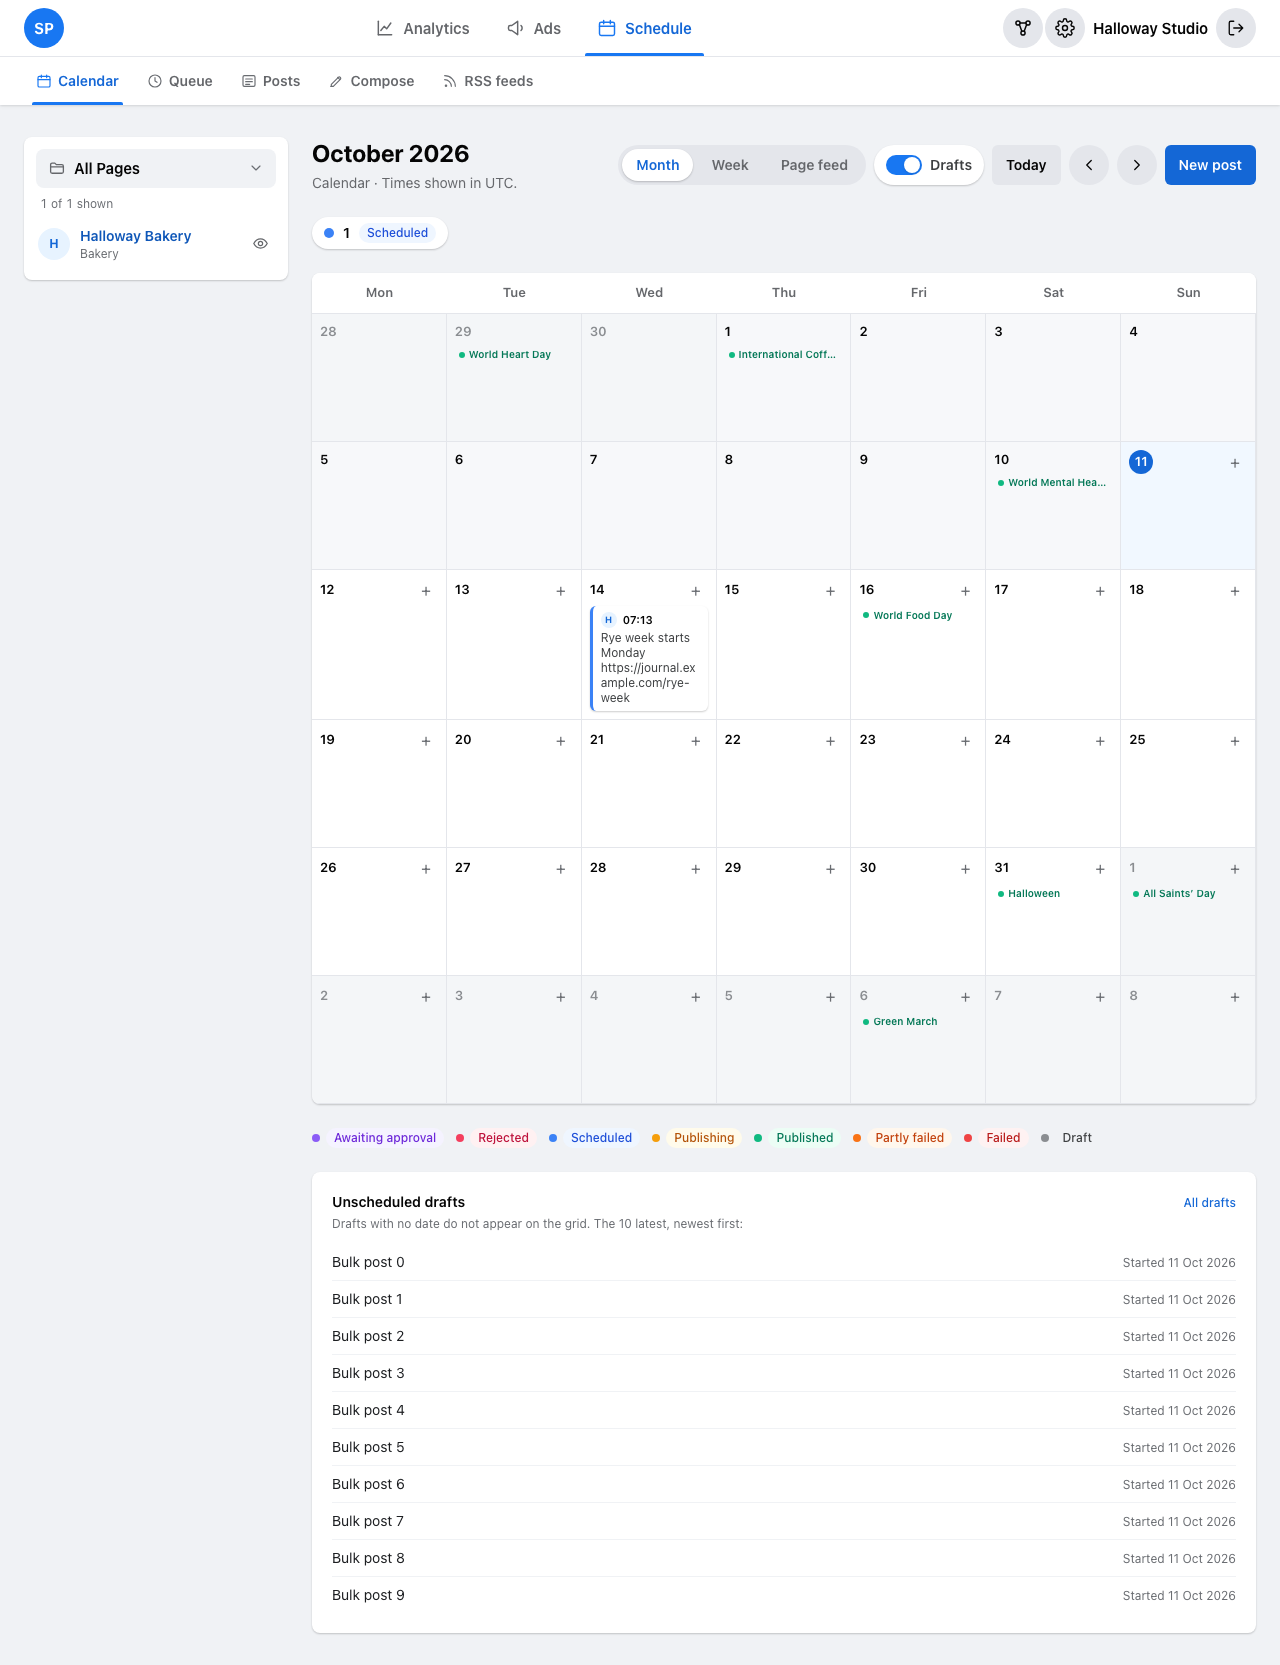
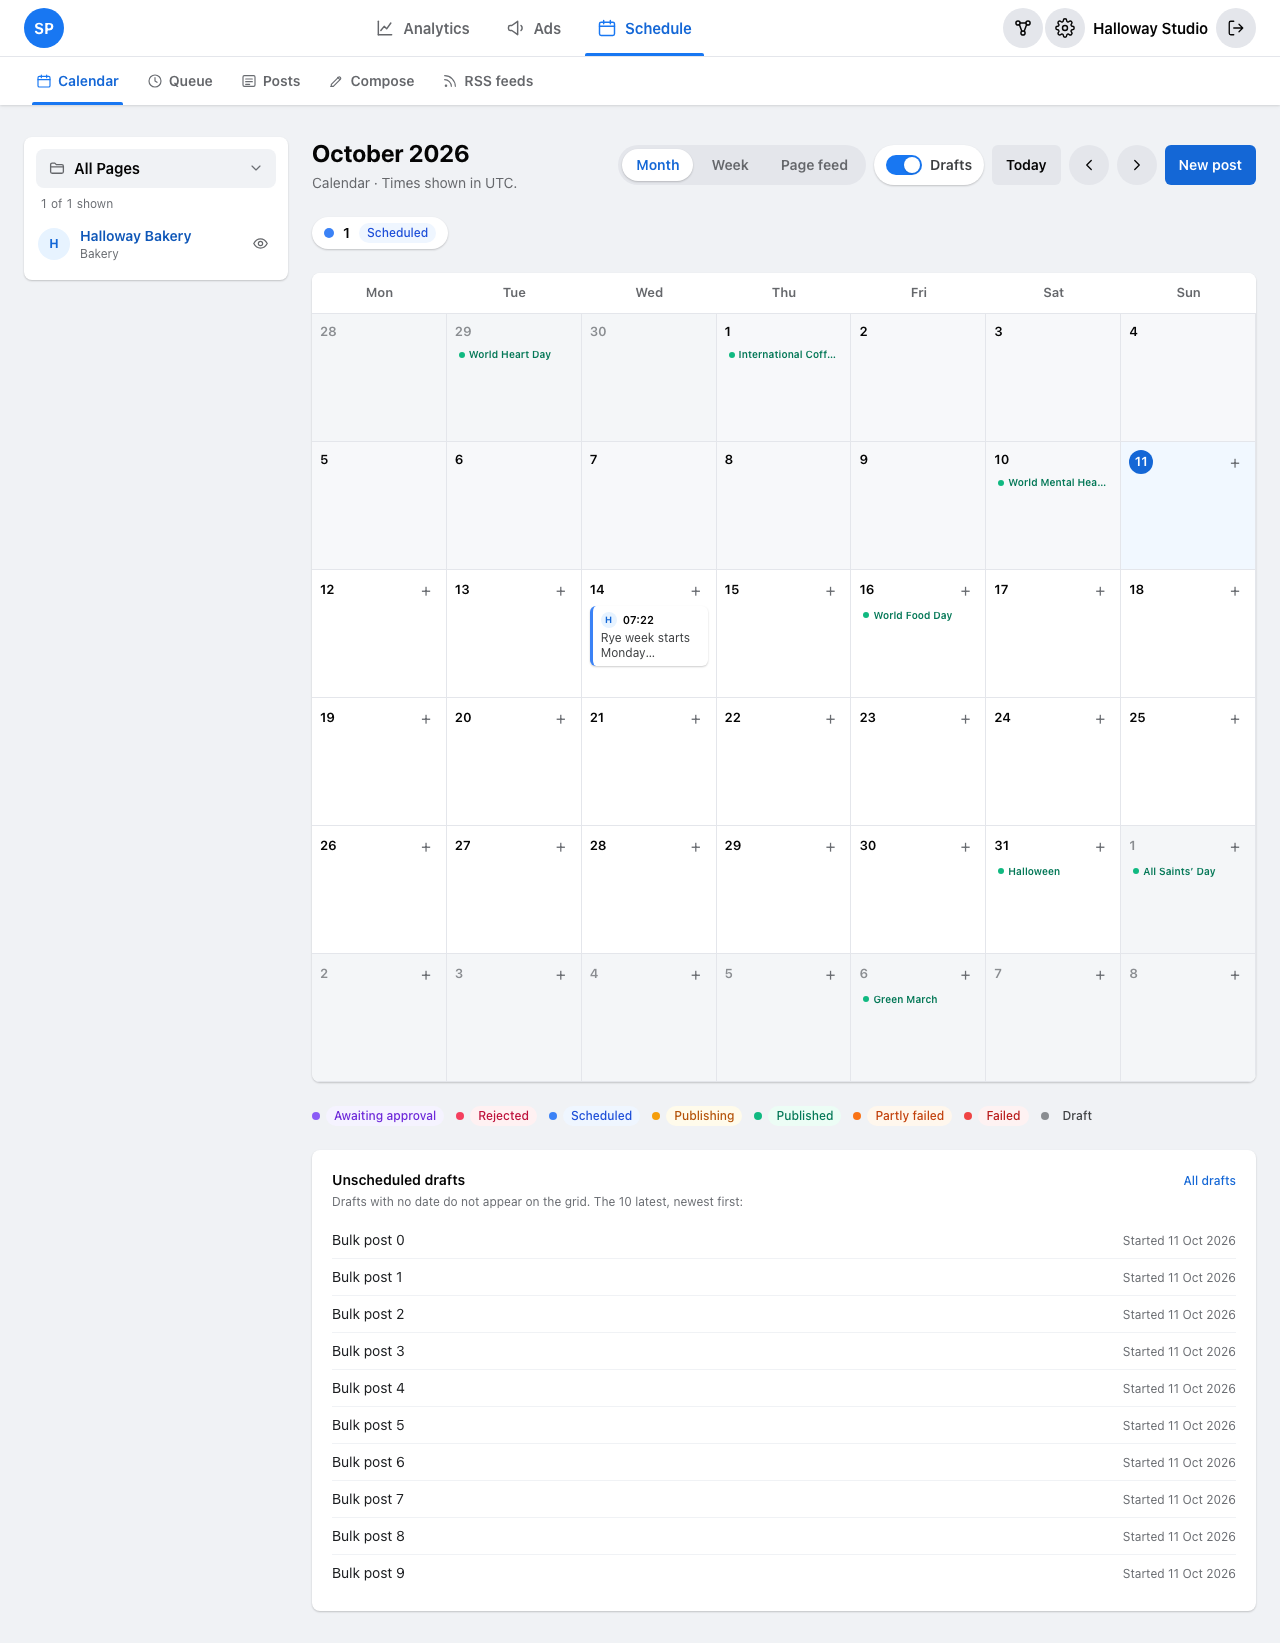
Polish P2 against real Pages: clamp long posts in the calendar, show Facebook-side posts in the feed preview, keep definitions inside their card, no link field on Reels and Stories

diff --git a/src/app/(app)/calendar/page.tsx b/src/app/(app)/calendar/page.tsx
@@ -9,7 +9,7 @@ import { PagesSidebar } from '@/components/PagesSidebar';
 import { LabelFilter } from '@/components/LabelFilter';
 import { WeekGrid } from '@/components/CalendarWeek';
 import { PageFeedPreview } from '@/components/PageFeedPreview';
-import { feedLinkOf, feedMediaOf } from '@/lib/feed';
+import { feedLinkOf, feedMediaOf, feedMediaOfPicture } from '@/lib/feed';
 import { canManageOthersPosts, canManageSettings, postIsEditable } from '@/lib/constants';
 import { screenMetadata } from '@/lib/metadata';
 import { prisma } from '@/lib/prisma';
@@ -138,7 +138,7 @@ export default async function CalendarPage({
 
   // The feed view shows one Page: the one left visible, or the first.
   const feedPageId = view === 'feed' ? (filter.visible?.length === 1 ? filter.visible[0] : filter.ids[0]) : undefined;
-  const [feedPage, feedUpcoming, feedRecent] = feedPageId
+  const [feedPage, feedUpcoming, feedOurs, feedFound] = feedPageId
     ? await Promise.all([
         prisma.target.findUnique({
           where: { id: feedPageId },
@@ -162,8 +162,37 @@ export default async function CalendarPage({
           orderBy: { publishedAt: 'desc' },
           take: 5,
         }),
+        // Posted from Facebook itself, or before this app: the feed is the Page's, not ours.
+        prisma.externalPost.findMany({
+          where: { targetId: feedPageId },
+          orderBy: { createdTime: 'desc' },
+          take: 5,
+        }),
       ])
-    : [null, [], []];
+    : [null, [], [], []];
+  const sentFromHere = new Set(feedOurs.map((row) => row.remotePostId).filter(Boolean));
+  const feedRecent = [
+    ...feedOurs.map((row) => ({
+      id: row.id,
+      at: row.publishedAt,
+      message: row.post.message,
+      media: feedMediaOf(row.post.media),
+      link: row.post.link,
+      linkPreview: feedLinkOf(row.post.linkPreview),
+    })),
+    ...feedFound
+      .filter((row) => !sentFromHere.has(row.remoteId))
+      .map((row) => ({
+        id: row.id,
+        at: row.createdTime as Date | null,
+        message: row.message ?? '',
+        media: feedMediaOfPicture(row.pictureUrl, row.statusType === 'added_video'),
+        link: null,
+        linkPreview: null,
+      })),
+  ]
+    .sort((a, b) => (b.at?.getTime() ?? 0) - (a.at?.getTime() ?? 0))
+    .slice(0, 5);
 
   // Bucket by the local calendar day so a post at 23:00 UTC+2 lands on the
   // right square rather than the previous day.
@@ -297,7 +326,7 @@ export default async function CalendarPage({
           {/* The planner's chip: the photo beside the opening words,
               as Meta Business Suite draws a planned post. */}
           <span className="mt-0.5 flex items-start gap-1.5">
-            <span className="line-clamp-2 block min-w-0 flex-1 [overflow-wrap:anywhere] text-xs leading-tight text-slate-700">
+            <span className="line-clamp-2 min-w-0 flex-1 [overflow-wrap:anywhere] text-xs leading-tight text-slate-700">
               {post.message || post.link || tPosts('mediaOnly')}
             </span>
             {firstImage(post.media) && (
@@ -443,11 +472,11 @@ export default async function CalendarPage({
             }))}
             recent={feedRecent.map((row) => ({
               id: row.id,
-              message: row.post.message,
-              meta: row.publishedAt ? formatInZone(row.publishedAt, timezone, 'd MMMM, HH:mm') : '',
-              media: feedMediaOf(row.post.media),
-              link: row.post.link,
-              linkPreview: feedLinkOf(row.post.linkPreview),
+              message: row.message,
+              meta: row.at ? formatInZone(row.at, timezone, 'd MMMM, HH:mm') : '',
+              media: row.media,
+              link: row.link,
+              linkPreview: row.linkPreview,
             }))}
           />
         ) : (

diff --git a/src/components/Composer.tsx b/src/components/Composer.tsx
@@ -332,7 +332,7 @@ export function Composer({
               firstCommentDelayMinutes: commentDelay,
               labelIds,
               format,
-              link: link.trim() ? link.trim() : null,
+              link: format === 'post' && link.trim() ? link.trim() : null,
               media,
               targetIds: selected,
               publishMode: effectiveHandler,
@@ -349,7 +349,7 @@ export function Composer({
               firstCommentDelayMinutes: commentDelay,
               labelIds,
               format,
-              link: link.trim() ? link.trim() : null,
+              link: format === 'post' && link.trim() ? link.trim() : null,
               media,
               targetIds: selected,
               publishMode,
@@ -580,7 +580,8 @@ export function Composer({
 
           {aiEnabled && <AiAssist draft={message} onResult={writeMessage} />}
 
-          <div className="mt-5">
+          {/* Reels and Stories carry no link card: Facebook drops it. */}
+          <div className={`mt-5 ${format === 'post' ? '' : 'hidden'}`}>
             <label className="label" htmlFor="link">
               {t('link')} <span className="font-normal text-slate-400">{tAuth('optional')}</span>
             </label>
@@ -675,7 +676,11 @@ export function Composer({
                 <span className="font-medium text-brand-600">{t('mediaChoose')}</span> {t('mediaOrDrop')}
               </span>
             </label>
-            <p className="hint">{uploading ? t('uploading') : t('mediaHint', { max: LIMITS.mediaPerPost })}</p>
+            <p className="hint">{uploading
+                ? t('uploading')
+                : format === 'post'
+                  ? t('mediaHint', { max: LIMITS.mediaPerPost })
+                  : t(`mediaHint_${format}`)}</p>
 
             {media.length > 0 && (
               <ul className="mt-3 flex flex-wrap gap-3">

diff --git a/src/components/InfoTip.tsx b/src/components/InfoTip.tsx
@@ -3,6 +3,9 @@
  * hover or keyboard focus. A span, not a button, so it can sit inside a card
  * that is itself a button; it is focusable, and screen readers read the
  * definition as its label.
+ *
+ * The bubble spans the card it sits in (the nearest positioned ancestor), so it
+ * never runs off the edge of a phone or of the first card in a row.
  */
 export function InfoTip({ text }: { text: string }) {
   return (
@@ -10,12 +13,12 @@ export function InfoTip({ text }: { text: string }) {
       tabIndex={0}
       role="img"
       aria-label={text}
-      className="group/tip relative ml-1 inline-flex h-4 w-4 shrink-0 cursor-help items-center justify-center rounded-full align-[-2px] text-[10px] font-bold text-slate-400 ring-1 ring-slate-300 hover:text-brand-600 hover:ring-brand-400 focus:outline-none focus-visible:ring-2 focus-visible:ring-brand-500 print:hidden"
+      className="group/tip ml-1 inline-flex h-4 w-4 shrink-0 cursor-help items-center justify-center rounded-full align-[-2px] text-[10px] font-bold text-slate-400 ring-1 ring-slate-300 hover:text-brand-600 hover:ring-brand-400 focus:outline-none focus-visible:ring-2 focus-visible:ring-brand-500 print:hidden"
     >
       i
       <span
         aria-hidden
-        className="pointer-events-none absolute bottom-full left-1/2 z-40 mb-2 hidden w-56 -translate-x-1/2 rounded-lg bg-slate-900 px-3 py-2 text-left text-xs font-normal leading-snug text-white shadow-lg group-hover/tip:block group-focus/tip:block"
+        className="pointer-events-none absolute inset-x-2 bottom-full z-40 mb-1 hidden rounded-lg bg-slate-900 px-3 py-2 text-left text-xs font-normal leading-snug text-white shadow-lg group-hover/tip:block group-focus/tip:block"
       >
         {text}
       </span>

diff --git a/src/components/analysis/KpiExplorer.tsx b/src/components/analysis/KpiExplorer.tsx
@@ -94,14 +94,14 @@ export function KpiExplorer({ cards, days, vsLabel }: { cards: KpiCard[]; days: 
               type="button"
               aria-pressed={on}
               onClick={() => setSelected(card.key)}
-              className={`card block p-4 text-left transition-shadow hover:shadow-md focus-visible:outline-none focus-visible:ring-2 focus-visible:ring-brand-500 ${
+              className={`card relative block p-4 text-left transition-shadow hover:shadow-md focus-visible:outline-none focus-visible:ring-2 focus-visible:ring-brand-500 ${
                 on ? 'ring-2 ring-brand-500' : ''
               }`}
             >
               {body}
             </button>
           ) : (
-            <div key={card.key} className="card p-4">
+            <div key={card.key} className="card relative p-4">
               {body}
             </div>
           );

diff --git a/src/components/FeedPost.tsx b/src/components/FeedPost.tsx
@@ -358,12 +358,12 @@ export function LinkCard({ preview, compact = false }: { preview: FeedLinkPrevie
           {preview.siteName || hostOf(preview.url)}
         </span>
         <span
-          className={`line-clamp-2 block font-semibold text-slate-900 ${compact ? 'text-sm leading-5' : 'text-[17px] leading-[1.35rem]'}`}
+          className={`line-clamp-2 font-semibold text-slate-900 ${compact ? 'text-sm leading-5' : 'text-[17px] leading-[1.35rem]'}`}
         >
           {preview.title || preview.url}
         </span>
         {preview.description && !compact && (
-          <span className="mt-0.5 line-clamp-1 block text-[15px] text-slate-600">{preview.description}</span>
+          <span className="mt-0.5 line-clamp-1 text-[15px] text-slate-600">{preview.description}</span>
         )}
       </span>
     </ExternalLink>

diff --git a/src/components/AudienceSection.tsx b/src/components/AudienceSection.tsx
@@ -75,7 +75,16 @@ export async function AudienceView({
           map={{ label: t('mapLabel'), locale }}
         />
         </div>
-        <BreakdownBars title={t('byCity')} data={audience.byCity} />
+        {/* Alone on its row once age and language are gone: take the width. */}
+        <div
+          className={
+            Object.keys(audience.byGenderAge).length === 0 && Object.keys(audience.byLocale).length === 0
+              ? 'lg:col-span-2'
+              : undefined
+          }
+        >
+          <BreakdownBars title={t('byCity')} data={audience.byCity} limit={12} />
+        </div>
         {/* Meta withdrew both breakdowns from Page insights. A Page synced
             before then still has a snapshot; otherwise an empty card would
             read as "nobody", so say what happened instead. */}

diff --git a/src/components/charts/StatTile.tsx b/src/components/charts/StatTile.tsx
@@ -47,7 +47,7 @@ export function StatTile({
     delta !== null && delta !== undefined && upIsGood !== null ? (delta >= 0) === upIsGood : null;
 
   return (
-    <div className="card p-4">
+    <div className="card relative p-4">
       <p className="flex items-center text-[13px] font-semibold text-slate-600">
         {label}
         {definition && <InfoTip text={definition} />}
